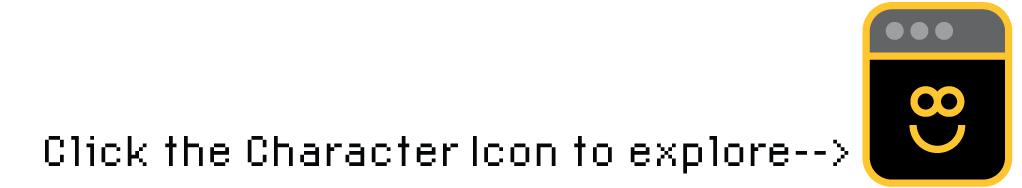
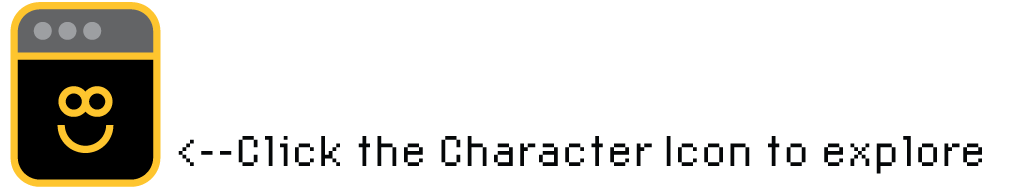
headers

diff --git a/0home.html b/0home.html
@@ -19,6 +19,7 @@
 
 <div id="intro">
 	<div id="map">
+		<div id="map_head"><img src="images/header_map.png" alt="map_head" style="width:100%"></div>
 		<img src="images/0map.png" alt="map" style="width:100%">
 	</div>
 
@@ -43,9 +44,16 @@
 	</div>
 </div>
 
-<div id="scroll">
-	<div><img src="images/scroll_blank.png" alt="scroll" style="width:100%"></div>
-	<div><img src="images/scroll_character.png" alt="scroll" style="width:100%"></div>
+<div id="header">
+<div id="character_head"><img src="images/header_characters.png" alt="character_head" style="width:100%"></div>
+<div id="character_click">
+			<div id="character_icon">
+				<a href="0characters.html"><img src="images/character_icon.png" alt="character_icon" style="width:100%"></a>
+			</div>
+			<div id="hover">
+				<a href="0characters.html"><img src="images/character_icon_text.png" alt="character_icon" style="width:100%"></a></div>
+			</div>
+</div>
 </div>
 
 <div id="cast_scroll">
@@ -57,13 +65,13 @@
 	<div><img src="images/cast6.png" alt="cast6" style="width:100%"></div>
 </div>
 
+<div id="scroll">
+	<div><img src="images/scroll_blank.png" alt="scroll" style="width:100%"></div>
+	<div><img src="images/scroll_character.png" alt="scroll" style="width:100%"></div>
+</div>
+
 <div id="characters">
 		<div id="character_click">
-			<div id="character_icon">
-				<a href="0characters.html"><img src="images/character_icon.png" alt="character_icon" style="width:100%"></a>
-			</div>
-			<div id="hover">
-				<a href="0characters.html"><img src="images/character_icon_text.png" alt="character_icon" style="width:100%"></a></div>
 			<div id="character_window"><img src="images/character_window.png" alt="character_window" style="width:100%"></div>
 		</div>
 		<div id="text">
@@ -85,6 +93,7 @@
 
 <div id="friendships">
 	<div>
+		<div id="friendship_head"><img src="images/header_friendship.png" alt="friendship_head" style="width:100%"></div>
 		<div id="friendship_bars">
 			<div><img src="images/friendship/friendship1.png" alt="friendship" style="width:100%"></div>
 			<div><img src="images/friendship/friendship2.png" alt="friendship" style="width:100%"></div>
@@ -138,10 +147,8 @@
 </div>
 
 <div id="missions">
-	<div id="mission_click">
-		<div id="mission_icon"><img src="images/mission_icon.png" alt="mission_icon" style="width:100%"></div>
-		<div id="hover"><img src="images/mission_icon_text.png" alt="mission_icon" style="width:100%"></div>
 		<div>
+			<div id="mission_head"><img src="images/header_missions.png" alt="mission_head" style="width:100%"></div>
 			<div id="mission_bars">
 				<div><img src="images/mission/mission_bar1.png" alt="mission" style="width:100%"></div>
 				<div><img src="images/mission/mission_bar2.png" alt="mission" style="width:100%"></div>
@@ -164,17 +171,15 @@
 				<div><img src="images/mission/mission_bar4.png" alt="mission" style="width:100%"></div>
 		</div>
 			<div id="mission_box"><img src="images/mission_box.png" alt="mission_box" style="width:100%" class="center"></div>
-	</div>
 </div>
 	<div id="text">
+		<div id="mission_click">
+			<div id="mission_icon"><img src="images/mission_icon.png" alt="mission_icon" style="width:100%"></div>
+			<div id="hover"><img src="images/mission_icon_text.png" alt="mission_icon" style="width:100%"></div>
+		</div>
 		<img src="images/text4.png" alt="text" style="width:100%" class="center">
 		<div id="mission_annotation"><img src="images/mission_annotation.png" alt="mission_annotation" style="width:100%"></div>
 	</div>
-</div>
-
-<div id="scroll">
-	<div><img src="images/scroll_blank.png" alt="scroll" style="width:100%"></div>
-	<div><img src="images/scroll_mission.png" alt="scroll" style="width:100%"></div>
 </div>
 
 <div id="mission_scroll">
@@ -183,14 +188,18 @@
 	<div><img src="images/mission3.png" alt="mission3" style="width:100%"></div>
 </div>
 
+<div id="scroll">
+	<div><img src="images/scroll_blank.png" alt="scroll" style="width:100%"></div>
+	<div><img src="images/scroll_mission.png" alt="scroll" style="width:100%"></div>
+</div>
+
 <div id="mission_explanation">
 	<img src="images/mission_explanation.png" alt="mission_explanation" style="width:90%">
 </div>
 
 <div id="tools">
 	<div id="tool_click">
-		<div id="tool_icon"><img src="images/tool_icon.png" alt="tool_icon" style="width:100%"></div>
-		<div id="hover"><img src="images/tool_icon_text.png" alt="tool_icon" style="width:100%"></div>
+		<div id="tool_head"><img src="images/header_tools.png" alt="tool_head" style="width:100%"></div>
 		<div id="scroll_tool"><img src="images/scroll_tool.png" alt="scroll" style="width:100%"></div>
 		<div id="tool_scroll1">
 			<div id="tool_scroll">
@@ -209,6 +218,8 @@
 	</div>
 </div>
 	<div id="text">
+		<div id="tool_icon"><img src="images/tool_icon.png" alt="tool_icon" style="width:100%"></div>
+		<div id="hover"><img src="images/tool_icon_text.png" alt="tool_icon" style="width:100%"></div>
 		<img src="images/text7.png" alt="text" style="width:100%" class="center">
 	</div>
 </div>
@@ -219,8 +230,7 @@
 
 <div id="stats">
 	<div id="stat_click">
-		<div id="stat_icon"><img src="images/stat_icon.png" alt="stat_icon" style="width:100%"></div>
-		<div id="hover"><img src="images/stat_icon_text.png" alt="stat_icon" style="width:100%"></div>
+		<div id="stat_head"><img src="images/header_stats.png" alt="stat_head" style="width:100%"></div>
 		<div id="power_ups">
 			<div><img src="images/stats/power_up1.png" alt="power_up1" style="width:100%"></div>
 			<div><img src="images/stats/power_up2.png" alt="power_up2" style="width:100%"></div>
@@ -231,7 +241,11 @@
 		<div id="stat_window"><img src="images/stat_window.png" alt="stat_window" style="width:100%" class="center"></div>
 		<div id="hover"><img src="images/stat_window_annotations.png" alt="stat_window" style="width:100%" class="center"></div>
 	</div>
+	<div id="stat_click">
+		<div id="stat_icon"><img src="images/stat_icon.png" alt="stat_icon" style="width:100%"></div>
+		<div id="hover"><img src="images/stat_icon_text.png" alt="stat_icon" style="width:100%"></div>
 		<div id="stat_annotations"><img src="images/stat_annotations.png" alt="stat_annotations" style="width:100%" class="center"></div>
+	</div>
 </div>
 
 <div id="stat_windows">
@@ -251,8 +265,7 @@
 
 <div id="powers">
 	<div id="power_click">
-		<div id="power_icon"><img src="images/power_icon.png" alt="power_icon" style="width:100%"></div>
-		<div id="hover"><img src="images/power_icon_text.png" alt="power_icon" style="width:100%"></div>
+		<div id="power_head"><img src="images/header_powers.png" alt="power_head" style="width:100%"></div>
 		<div><img src="images/scroll_power.png" alt="scroll_power" style="width:100%"></div>
 		<div id="power_scroll">
 			<div><img src="images/gem_annotation.png" alt="gem_annotation" style="width:100%"></div>
@@ -268,8 +281,6 @@
 			<div><img src="images/gem_lightning6.png" alt="lightning6" style="width:100%"></div>
 		</div>
 		<div id="power_window"><img src="images/power_window.png" alt="power_window" style="width:100%"></div>
-	</div>
-	<div id="text">
 		<div id="power_gifs">
 			<img src="images/powers/ximena.gif" alt="water" style="width:100%">
 			<img src="images/powers/bebe.gif" alt="fire" style="width:100%">
@@ -279,6 +290,11 @@
 		</div>
 		<div id="power_windows"><img src="images/power_windows.png" alt="power_icon" style="width:100%"></div>
 		<div id="hover"><img src="images/power_windows_annotations.png" alt="power_icon" style="width:100%"></div>
+	</div>
+	<div id="text">
+		<div id="power_icon"><img src="images/power_icon.png" alt="power_icon" style="width:100%"></div>
+		<div id="hover"><img src="images/power_icon_text.png" alt="power_icon" style="width:100%"></div>
+
 		<img src="images/power_annotation.png" alt="power_icon" style="width:100%">
 			<img src="images/text6.png" alt="text6" style="width:100%" class="center">
 		</div>

diff --git a/0homestyle.css b/0homestyle.css
@@ -21,7 +21,7 @@ html{
 	background-color: lightgrey;
   }
 
-#intro, #characters, #friendships, #missions, #tools, #stats, #stat_text, #powers, #footer{
+#intro, #header, #characters, #friendships, #missions, #tools, #stats, #stat_text, #powers, #footer{
 	display: grid;
 	grid-template-columns: 50% 50%;
 	position: relative;
@@ -119,7 +119,7 @@ html{
 }
 
 #friendship_bars{
-	height: 48%;
+	height: 45.5%;
 	width: 50%;
 	overflow-x: auto;
 	z-index: 1;
@@ -148,14 +148,13 @@ html{
 }
 
 #mission_bars{
-	height: 63%;
-	width: 100%;
+	height: 51%;
+	width: 50%;
 	overflow-x: auto;
 	z-index: 1;
 	position: absolute;
-	margin-top: 14%;
+	margin-top: 7%;
 	padding: 1%;
-	padding-left: 2%;
 }
 
 #mission_bars > div{
